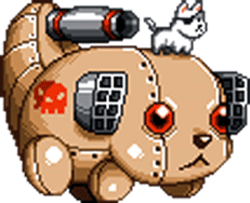
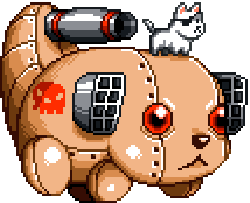
png for hero - dog

diff --git a/core/src/com/jumping/jumpingcat/JumpingCat.java b/core/src/com/jumping/jumpingcat/JumpingCat.java
@@ -12,8 +12,8 @@ import com.badlogic.gdx.math.Intersector;
 
 public class JumpingCat extends ApplicationAdapter {
     public static final float FULL_JUMP_SIZE = 40f;
-    public static final int DELAY_BETWEEN_CHARACTER_ACTIONS = 30;
-    public static final int NUMBER_OF_CHARACTERS_STATES = 1;
+    public static final int DELAY_BETWEEN_CHARACTER_ACTIONS = 5;
+    public static final int NUMBER_OF_CHARACTERS_STATES = 8;
     SpriteBatch batch;
     Texture background;
     Texture gameOverTexture;
@@ -88,13 +88,13 @@ public class JumpingCat extends ApplicationAdapter {
 
 
         bird[0] = new Texture("dog1.png");
-//        bird[1] = new Texture("dog2.png");
-//        bird[2] = new Texture("dog3.png");
-//        bird[3] = new Texture("dog4.png");
-//        bird[4] = new Texture("dog5.png");
-//        bird[5] = new Texture("dog6.png");
-//        bird[6] = new Texture("dog7.png");
-//        bird[7] = new Texture("dog8.png");
+        bird[1] = new Texture("dog2.png");
+        bird[2] = new Texture("dog3.png");
+        bird[3] = new Texture("dog4.png");
+        bird[4] = new Texture("dog5.png");
+        bird[5] = new Texture("dog6.png");
+        bird[6] = new Texture("dog7.png");
+        bird[7] = new Texture("dog8.png");
         birdY = Gdx.graphics.getHeight() / 2 - bird[birdState].getHeight() / 2;
         birdX = Gdx.graphics.getWidth() / 2 - bird[birdState].getWidth() / 2;
 
